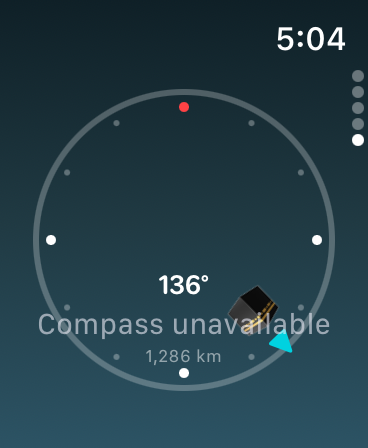
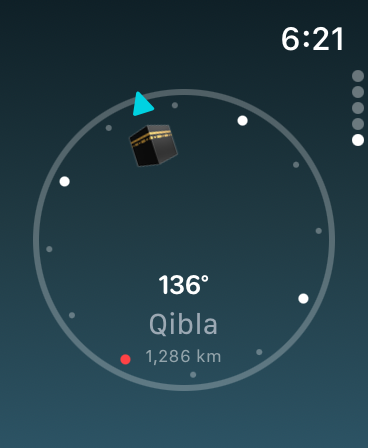
Watch compass harness, and re-take the screenshots that #27 and #28 made stale
THE WATCH QIBLA SHOTS said "Compass unavailable". No Simulator has a
magnetometer, and unlike the phone — which got this in #27 — the watch had no way
around it, so its Qibla page could only ever be seen, or screenshotted, in its
broken state.

`-debugSpinCompass 1` now works on the watch too: it satisfies
`WatchModel.headingAvailable` in DEBUG, and spins the heading at 30 Hz the way
the phone's harness does. The Qibla page now shows the real thing.

One trap worth recording, and it is in HANDOFF §4: on the watch, set this with
`simctl spawn <watch> defaults write <bundle> debugSpinCompass -int 1` rather
than as a launch argument, if you are going to be driving the app for more than a
moment. watchOS relaunches the app on its own and launch arguments do not
survive that — which is exactly why the first attempt still showed
"Compass unavailable" from a binary that already had the fix.

RE-TOOK SIX SCREENSHOTS:
- The four Home shots, because #28 replaced the tracker's hardcoded "F D A M I"
  with each prayer's icon. That changed every Home shot, English included.
- Both watch Qibla shots, with the harness above.

A SECOND TRAP, which nearly went unnoticed: `simctl io screenshot` CANNOT write
into the repo — the sandbox refuses it. The first attempt at the Home re-take
sent stderr to /dev/null, so the refusal was silent, and the `sips` check that
followed happily reported the dimensions of the OLD files still sitting there. It
[…]

diff --git a/iPrayerWatch/WatchModel.swift b/iPrayerWatch/WatchModel.swift
@@ -34,11 +34,23 @@ final class WatchModel: NSObject, ObservableObject, CLLocationManagerDelegate {
     @Published private(set) var prayerNames: [String: String] = [:]
     @Published private(set) var hijriDate: String = ""
     
-    var headingAvailable: Bool { CLLocationManager.headingAvailable() }
+    /// Whether this watch has a magnetometer, which decides between the live Qibla guidance and the
+    /// "Compass unavailable" note. `-debugSpinCompass 1` counts, in DEBUG only: the watchOS Simulator has
+    /// no magnetometer, so without it the Qibla page can only ever be seen — or screenshotted — in its
+    /// broken state. The phone gained the same escape hatch in #27.
+    var headingAvailable: Bool {
+        #if DEBUG
+        if UserDefaults.standard.integer(forKey: "debugSpinCompass") > 0 { return true }
+        #endif
+        return CLLocationManager.headingAvailable()
+    }
     
     private let locationManager = CLLocationManager()
     private let geocoder = CLGeocoder()
     private var tick: Timer?
+    #if DEBUG
+    private var fakeHeadingTimer: Timer?
+    #endif
     private var coordinates: (latitude: Double, longitude: Double)?
     private var lastFix: Date?
     
@@ -108,10 +120,26 @@ final class WatchModel: NSObject, ObservableObject, CLLocationManagerDelegate {
     }
     
     func startCompass() {
+        #if DEBUG
+        // Turn the dial by hand, since the Simulator cannot. 30 Hz, matching the phone's harness.
+        if UserDefaults.standard.integer(forKey: "debugSpinCompass") > 0, fakeHeadingTimer == nil {
+            fakeHeadingTimer = Timer.scheduledTimer(withTimeInterval: 1.0 / 30.0, repeats: true) { [weak self] _ in
+                // Bind before the Task: `[weak self]` is a mutable capture, and Swift 6 forbids a
+                // concurrently-executing closure referencing one.
+                guard let self else { return }
+                Task { @MainActor in self.currentHeading += 1 }
+            }
+            return
+        }
+        #endif
         if headingAvailable { locationManager.startUpdatingHeading() }
     }
     
     func stopCompass() {
+        #if DEBUG
+        fakeHeadingTimer?.invalidate()
+        fakeHeadingTimer = nil
+        #endif
         locationManager.stopUpdatingHeading()
     }
     

diff --git a/HANDOFF.md b/HANDOFF.md
@@ -386,7 +386,12 @@ below) · `-debugSpinCompass 1` (turns the compass at 30 Hz and
 reports a deliberately POOR 25° accuracy, since the simulator has no magnetometer; change the timer interval
 to rehearse a slow aim, which is the case that used to be silent) · `-debugHeadingAccuracy 5` (overrides
 that 25°, for rehearsing a well-calibrated phone or for a screenshot, where the figure-8 prompt is not the
-state worth showing; the DEFAULT stays 25 on purpose, see §3) · `-debugAudioBaseURL https://unreachable.invalid`
+state worth showing; the DEFAULT stays 25 on purpose, see §3). `-debugSpinCompass 1` works on the WATCH
+as well, where it both fakes the heading and satisfies `WatchModel.headingAvailable` — without it the
+watch's Qibla page can only ever be seen in its "Compass unavailable" state, since no Simulator has a
+magnetometer. Set it with `simctl spawn <watch> defaults write <bundle> debugSpinCompass -int 1` rather
+than as a launch argument if you are going to be driving the app for a while: watchOS relaunches it, and
+launch arguments do not survive that · `-debugAudioBaseURL https://unreachable.invalid`
 (fails every verse, to test offline handling). Any UserDefaults key can also be overridden for one run,
 e.g. `-lastSeenWhatsNewVersion 1.0.0`, `-hasSeenOnboarding YES`, `-appLanguage ar`, `-userName "Youssef Keram"`
 (the last one shows the signed-in greeting without signing in).

diff --git a/README.md b/README.md
@@ -105,7 +105,7 @@ Debug builds accept these arguments to open a specific screen, which helps with 
 | `-debugOnboardingSlide 2` | Starts onboarding on that slide |
 | `-debugShowWhatsNew 1` | Forces the What's New sheet |
 | `-debugWatchStep 1` | Forces onboarding's Apple Watch step without a paired watch |
-| `-debugSpinCompass 1` | Turns the compass at 30 Hz, reporting a deliberately poor 25° accuracy |
+| `-debugSpinCompass 1` | Turns the compass at 30 Hz, reporting a deliberately poor 25° accuracy. Works on the watch too |
 | `-debugHeadingAccuracy 5` | Overrides that 25°, to rehearse a well-calibrated phone |
 | `-debugAudioBaseURL https://unreachable.invalid` | Makes every verse fail, to test offline handling |
 | `-appLanguage ar` / `-userName "Name"` | Any UserDefaults key can be overridden for one run |
